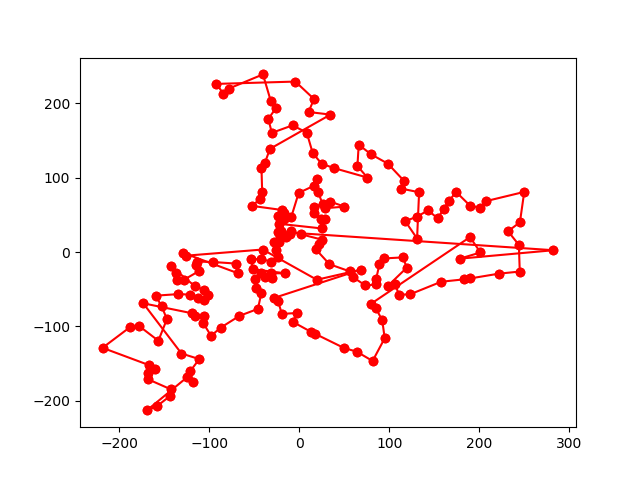
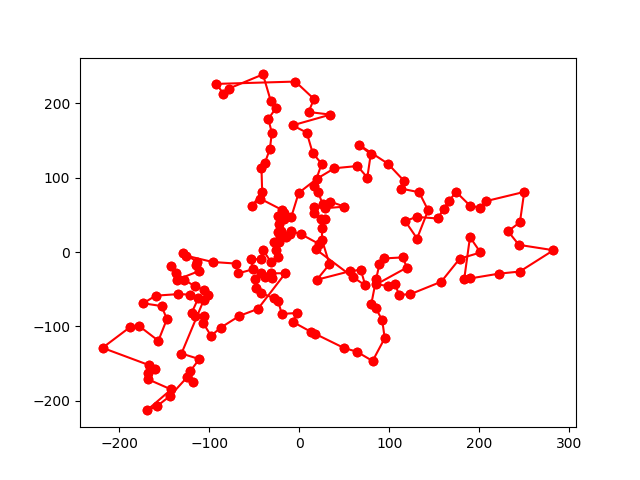
fix bugs

diff --git a/Tsp/christofides.py b/Tsp/christofides.py
@@ -6,8 +6,7 @@ class Christofides():
         self.n = n
         self.graph = graph
         self.mst = nx.minimum_spanning_tree(graph)
-        self.eulerian_graph = nx.Graph()
-        self.used = [False for _ in range(n)]
+        self.eulerian_graph = nx.MultiGraph()
     
     def _odd_degree_vertices(self):
         result = []
@@ -26,20 +25,23 @@ class Christofides():
     def _make_eulerian_graph(self):
         odd_complete_graph = self._odd_complete_greph()
         matching = nx.max_weight_matching(odd_complete_graph, maxcardinality=True)
-        self.eulerian_graph = self.mst
+
+        for v, to in self.mst.edges():
+            self.eulerian_graph.add_edge(v, to, self.mst[v][to]["weight"])
+            
         for i, j in matching:
             self.eulerian_graph.add_edge(i, j, weight = self.graph[i][j]['weight'])
     
-    def _dfs(self, v, result):
-        result.append(v)
-        self.used[v] = True
-        for to in self.eulerian_graph[v]:
-            if not self.used[to]:
-                self._dfs(to, result)
-    
     def exec(self):
+        used = [False for _ in range(self.n)]
         self._make_eulerian_graph()
+        eulerian_circuit = nx.eulerian_circuit(self.eulerian_graph)
         tour = []
-        self._dfs(0, tour)
-        tour.append(tour[0])
+        for s, t in eulerian_circuit:
+            if len(tour) == 0:
+                tour.append(s)
+                used[s] = True
+            if not used[t]:
+                tour.append(t)
+                used[t] = True
         return tour

diff --git a/Tsp/tsp.py b/Tsp/tsp.py
@@ -85,6 +85,6 @@ if __name__ == "__main__":
     plot_tour(double_tree, x, y)
     plot_tour(christofides, x, y)
 
-    print("distance by double tree  : {:.1f} [km]".format(calc_dist(double_tree, x, y)))
-    print("distance by christofides : {:.1f} [km]".format(calc_dist(christofides, x, y)))
-    print("distance by random trip  : {:.1f} [km]".format(calc_expected_dist(x, y)))
+    print("distance by double tree  : {:.0f} [km]".format(calc_dist(double_tree, x, y)))
+    print("distance by christofides : {:.0f} [km]".format(calc_dist(christofides, x, y)))
+    print("distance by random trip  : {:.0f} [km]".format(calc_expected_dist(x, y)))
